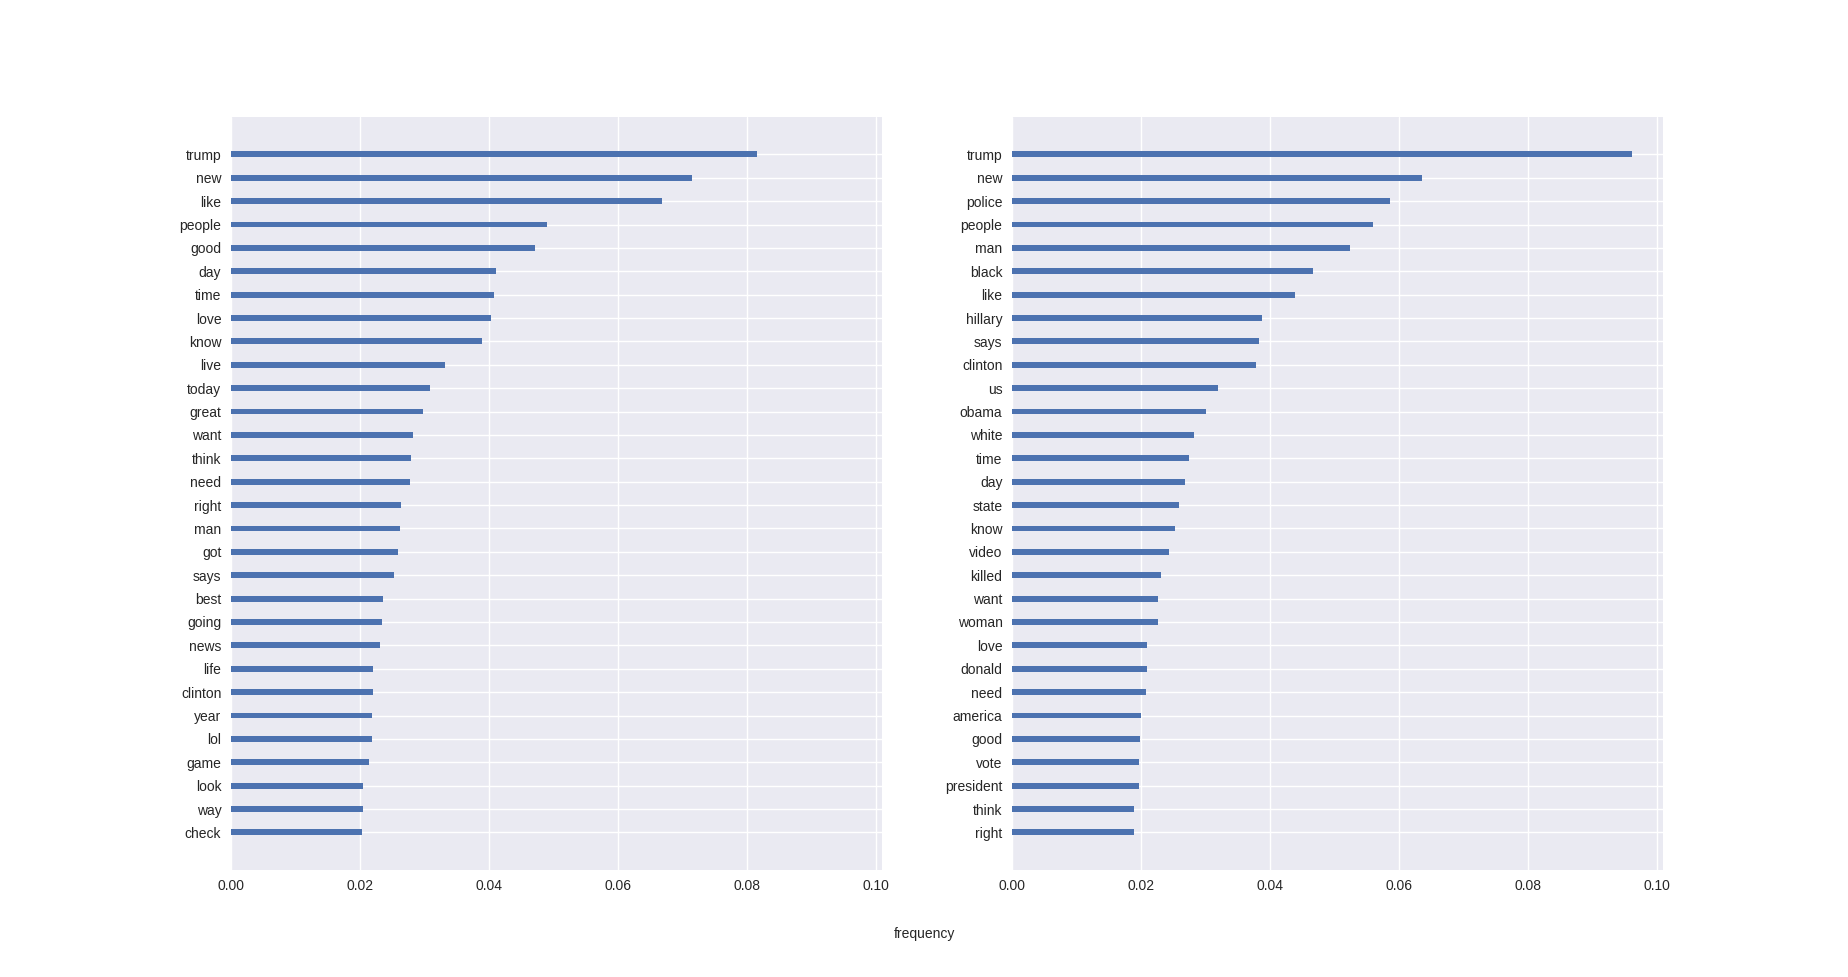
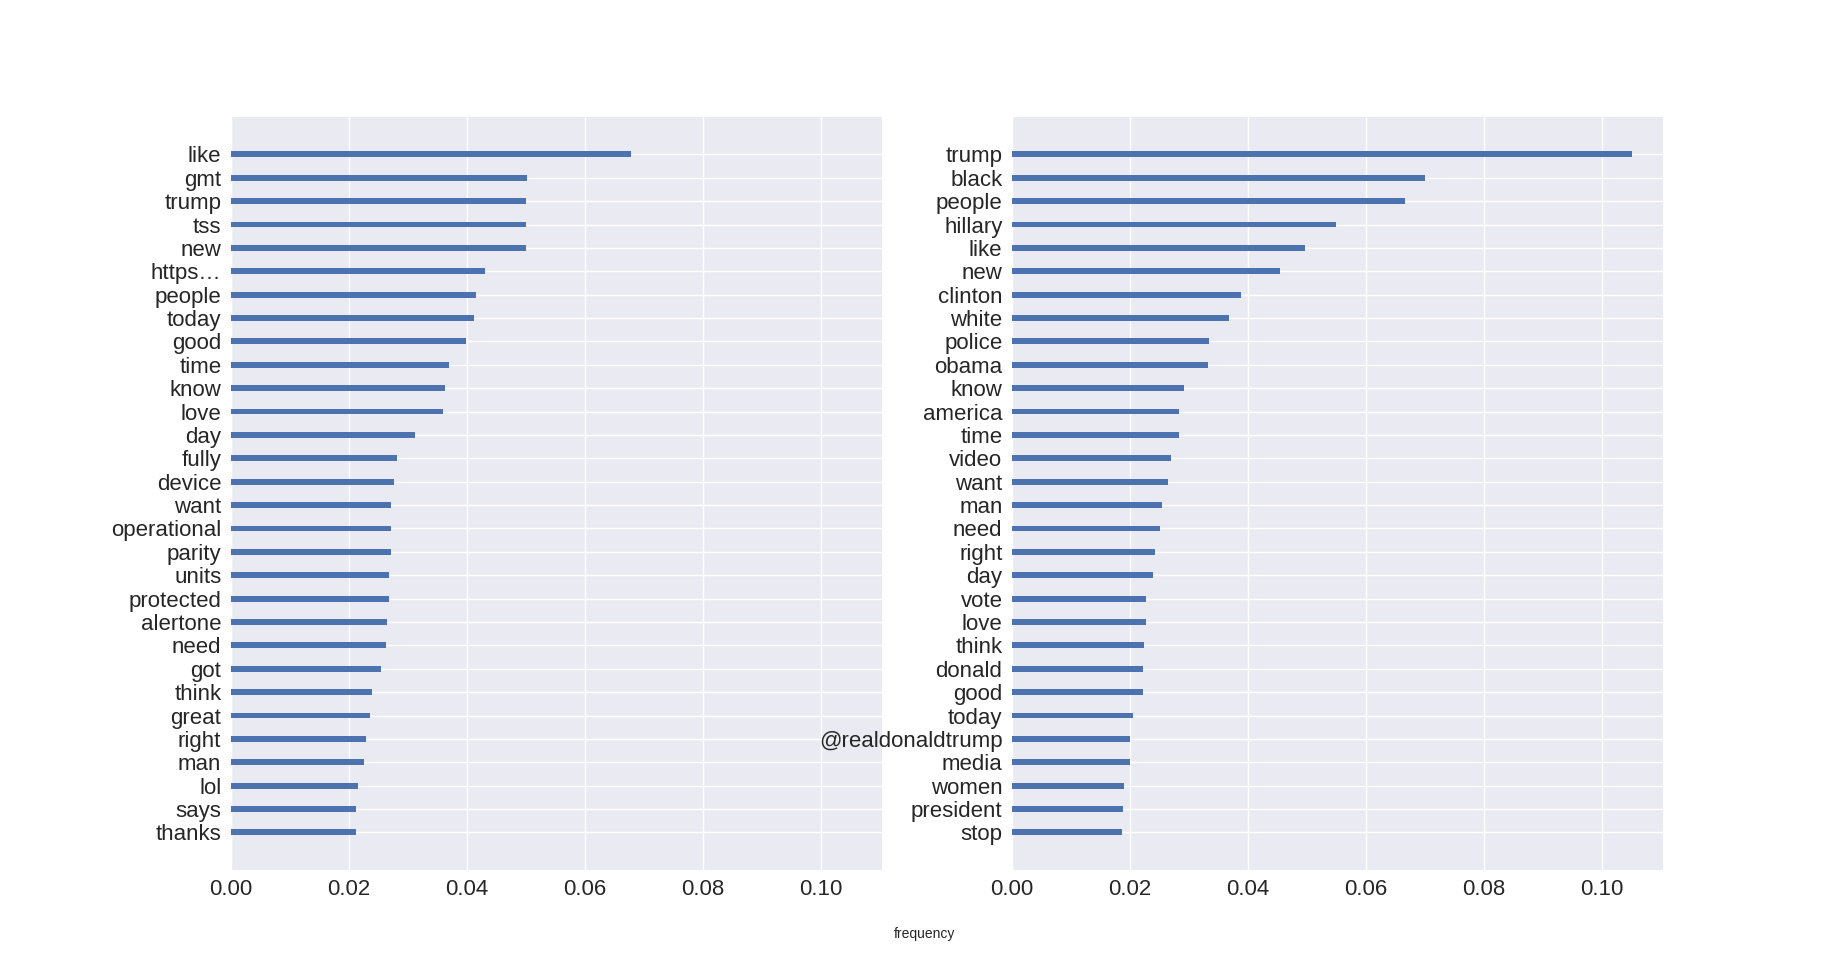
done sentiment analysis

diff --git a/data_analysis/build_tweet_vocabularies.py b/data_analysis/build_tweet_vocabularies.py
@@ -10,7 +10,8 @@ plt.style.use('seaborn')
 punctuations = '!"$%&\'()*+,-./:;<=>?[\\]^_`{|}~'
 digits = '0123456789'
 table = str.maketrans("", "", punctuations + digits)
-additional_stopwords = ["rt", "-", "amp", "\|", "&", "�", "its", "it", "u", "im", "https", "httpst", "httpstco", "cant", "you", "thats", "youre", "#", "dont"]
+additional_stopwords = ["rt", "-", "amp", "\|", "&", "�", "its", "it", "u", "im", "https", "httpst", "httpstco", "cant", "you", "thats", "youre", "#", "dont", "#a", ""]
+HIT_RATE = 0
 
 def is_hashtag(word):
     return word != "" and word[0] == "#"
@@ -19,10 +20,13 @@ def is_not_hashtag(word):
     return word != "" and word[0] != "#"
 
 def hit_rate(vocab, words):
+    global HIT_RATE
+    HIT_RATE += 1
+    print(f"Calculating hitrate: {HIT_RATE}")
     if len(words) == 0:
         return 0
-    hits = sum([1 for word in words if word in vocab]) / len(words)
-
+    hits = vocab.reindex(words).count() / len(words)
+    
     return hits
 
 def preprocess(s, word_check=(lambda x: True)):
@@ -33,48 +37,47 @@ def preprocess(s, word_check=(lambda x: True)):
     no_multiple_whitespaces = strip_multiple_whitespaces(no_punctuations) # remove multiple whitespaces
     result = no_multiple_whitespaces.split()
     result = [word for word in result if (word not in additional_stopwords and word_check(word))]
-
+    
     return result 
 
 ### Import data ###
-data = pd.read_csv("troll_data_2016_english.csv", usecols=["content", "author"], lineterminator='\n')
-data["hashtags"] = data["content"].apply(lambda x: preprocess(str(x), is_hashtag))
-data["words"] = data["content"].apply(lambda x: preprocess(str(x), is_not_hashtag))
-troll_hashtag_vocabulary = data["hashtags"].explode().value_counts().sort_values().tail(30)
+data = pd.read_csv("troll_data_2016_english.csv", usecols=["content", "author"], lineterminator='\n', nrows=500000)
+#data["hashtags"] = data["content"].apply(lambda x: preprocess(str(x), is_hashtag))
+data["words"] = data["content"].apply(lambda x: preprocess(str(x), lambda x: not is_hashtag(x)))
+#troll_hashtag_vocabulary = data["hashtags"].explode().value_counts().sort_values().tail(30)
 troll_word_vocabulary = data["words"].explode().value_counts().sort_values().tail(30)
-        
-baseline_data = pd.read_csv("baseline_data_2016_english.csv", lineterminator='\n', usecols=["author", "content"])
-baseline_data = baseline_data[baseline_data["author"] != 3040068274] # Dropping @ma_updates
-baseline_data["hashtags"] = baseline_data["content"].apply(lambda x: preprocess(str(x), is_hashtag))
+
+print("1")
+baseline_data = pd.read_csv("baseline_data_2016_english.csv", lineterminator='\n', usecols=["author", "content"], nrows=1000000)
+# baseline_data["hashtags"] = baseline_data["content"].apply(lambda x: preprocess(str(x), is_hashtag))
+print("2")
 baseline_data["words"] = baseline_data["content"].apply(lambda x: preprocess(str(x), is_not_hashtag))
-baseline_hashtag_vocabulary = baseline_data["hashtags"].explode().value_counts().sort_values().tail(30)
+print("3")
+# baseline_hashtag_vocabulary = baseline_data["hashtags"].explode().value_counts().sort_values().tail(30)
 baseline_word_vocabulary = baseline_data["words"].explode().value_counts().sort_values().tail(30)
-
-# print("1")
+print("4")
 # troll_vs_troll_hashtag_hitrate = data.groupby("author")["hashtags"].sum().apply(lambda x: hit_rate(troll_hashtag_vocabulary, x))
-# print("2")
-# troll_vs_troll_word_hitrate = data.groupby("author")["words"].sum().apply(lambda x: hit_rate(troll_word_vocabulary, x))
-# print("3")
+troll_authors_words = data.groupby("author")["words"].apply(lambda x: np.concatenate(x.to_numpy()))
+troll_vs_troll_word_hitrate = troll_authors_words.apply(lambda x: hit_rate(troll_word_vocabulary, x))
+print("5")
 # troll_vs_baseline_hashtag_hitrate = data.groupby("author")["hashtags"].sum().apply(lambda x: hit_rate(baseline_hashtag_vocabulary, x))
-# print("4")
-# troll_vs_baseline_word_hitrate = data.groupby("author")["words"].sum().apply(lambda x: hit_rate(baseline_word_vocabulary, x))
+troll_vs_baseline_word_hitrate = troll_authors_words.apply(lambda x: hit_rate(baseline_word_vocabulary, x))
 
-# print("5")
+print("6")
 # baseline_vs_baseline_hashtag_hitrate = baseline_data.groupby("author")["hashtags"].sum().apply(lambda x: hit_rate(baseline_hashtag_vocabulary, x))
-# print("6")
-# baseline_vs_baseline_word_hitrate = baseline_data.groupby("author")["words"].sum().apply(lambda x: hit_rate(baseline_word_vocabulary, x))
-# print("7")
+baseline_authors_words = baseline_data.groupby("author")["words"].apply(lambda x: np.concatenate(x.to_numpy()))
+baseline_vs_baseline_word_hitrate = baseline_authors_words.apply(lambda x: hit_rate(baseline_word_vocabulary, x))
+print("7")
 # baseline_vs_troll_hashtag_hitrate = baseline_data.groupby("author")["hashtags"].sum().apply(lambda x: hit_rate(troll_hashtag_vocabulary, x))
-# print("8")
-# baseline_vs_troll_word_hitrate = baseline_data.groupby("author")["words"].sum().apply(lambda x: hit_rate(troll_word_vocabulary, x))
+baseline_vs_troll_word_hitrate = baseline_authors_words.apply(lambda x: hit_rate(troll_word_vocabulary, x))
 
+# fig, (ax1, ax2) = plt.subplots(1, 2, sharex=True)
+# fig.text(0.5, 0.04, 'frequency', ha='center')
 
-fig, (ax1, ax2) = plt.subplots(1, 2, sharex=True)
-fig.text(0.5, 0.04, 'frequency', ha='center')
+# ax1.barh(baseline_word_vocabulary.keys(), baseline_word_vocabulary.values / baseline_word_vocabulary.values.sum(), 0.25)
+# ax1.tick_params(labelsize=16)
 
-ax1.barh(baseline_hashtag_vocabulary.keys(), baseline_hashtag_vocabulary.values / baseline_hashtag_vocabulary.values.sum(), 0.25)
+# ax2.barh(troll_word_vocabulary.keys(), troll_word_vocabulary.values / troll_word_vocabulary.values.sum(), 0.25)
+# ax2.tick_params(labelsize=16)
 
-ax2.barh(troll_hashtag_vocabulary.keys(), troll_hashtag_vocabulary.values / troll_hashtag_vocabulary.values.sum(), 0.25)
-
-
-plt.show()
+# plt.show()

diff --git a/data_sampling/remove_foreign_tweets.py b/data_sampling/remove_foreign_tweets.py
@@ -20,9 +20,9 @@ def calculate_user_language(authors_tweets):
     print(f"Parsed {USERS_PARSED}/{users_total} users")
     print(f"sum english tweets: {sum(english_tweets)}, len english tweets: {len(english_tweets)}")
 
-    return sum(english_tweets) / len(english_tweets) >= 0.8 # user language is english if >= 80% of the tweets are english
+    return sum(english_tweets) / len(english_tweets) >= 0.7 # user language is english if >= 70% of the tweets are english
 
-baseline_data = pd.read_csv("baseline_dataset.csv", parse_dates=["publish_date"])
+baseline_data = pd.read_csv("baseline_dataset2.csv", parse_dates=["publish_date"], lineterminator='\n')
 users_total = len(baseline_data["author"].unique())
 english_users = baseline_data.groupby("author", group_keys=False).apply(lambda x: x.sample(n=10, replace=True)).groupby("author")["content"].apply(calculate_user_language)
-#baseline_data[baseline_data["author"].map(english_users)].to_csv("baseline_dataset_english.csv")
+baseline_data[baseline_data["author"].map(english_users)].to_csv("baseline_dataset_english2.csv")

diff --git a/data_sampling/enrich_baseline_data.py b/data_sampling/enrich_baseline_data.py
@@ -14,7 +14,7 @@ def batch(iterable, n=1):
 
 FOLLOWERS_DATASET = "followers_10wk_avg.csv"
 FOLLOWING_DATASET = "following_10wk_avg.csv"
-DATASET = "sample_with_data_cleaned.csv"
+DATASET = "sample_with_data_cleaned2.csv"
 URL = "https://api.twitter.com/2/users"
 BATCH_SIZE = 100
 HEADERS_DEV =  {"Authorization": "Bearer AAAAAAAAAAAAAAAAAAAAAD80MwEAAAAAYLao%2FyVAFLhPqfayG4zkCCbaOlo%3DmgqWX8HrEL440jXYVKXiRIgZkDGWcAOiILQ3gmjlwZHcVMYJEx"}
@@ -65,5 +65,5 @@ data["followers"] = data["age_at_tweet_weeks"].map(followers_dict)
 following_dict = data["age_at_tweet_weeks"].map(following_data.to_dict()["following"])
 data["following"] = data["age_at_tweet_weeks"].map(following_dict)
 
-#data.drop(columns=["user_created_at", "age_at_tweet", "age_at_tweet_weeks"], inplace=True)
-#data.to_csv("baseline_dataset.csv")
+data.drop(columns=["user_created_at", "age_at_tweet", "age_at_tweet_weeks"], inplace=True)
+data.to_csv("baseline_dataset2.csv")

diff --git a/data_analysis/sentiment.py b/data_analysis/sentiment.py
@@ -1,0 +1,22 @@
+import nltk
+import pandas as pd
+import matplotlib.pyplot as plt
+from nltk.sentiment import SentimentIntensityAnalyzer
+nltk.download('vader_lexicon')
+plt.style.use('seaborn')
+
+
+data = pd.read_csv("troll_data_2016_english.csv", lineterminator='\n')
+baseline = pd.read_csv("baseline_data_2016_english.csv", lineterminator='\n')
+
+### Save sentiment scores
+#sa = SentimentIntensityAnalyzer()
+#data["sentiment"] = data["content"].apply(lambda x: sa.polarity_scores(str(x))["compound"])
+#data.to_csv("troll_data_2016_english.csv", index=False)
+
+data.groupby("week")["sentiment"].mean().plot(label="troll")
+baseline.groupby("week")["sentiment"].mean().plot(label="baseline")
+plt.xlabel("Week")
+plt.ylabel("Average sentiment")
+plt.legend()
+plt.show()
